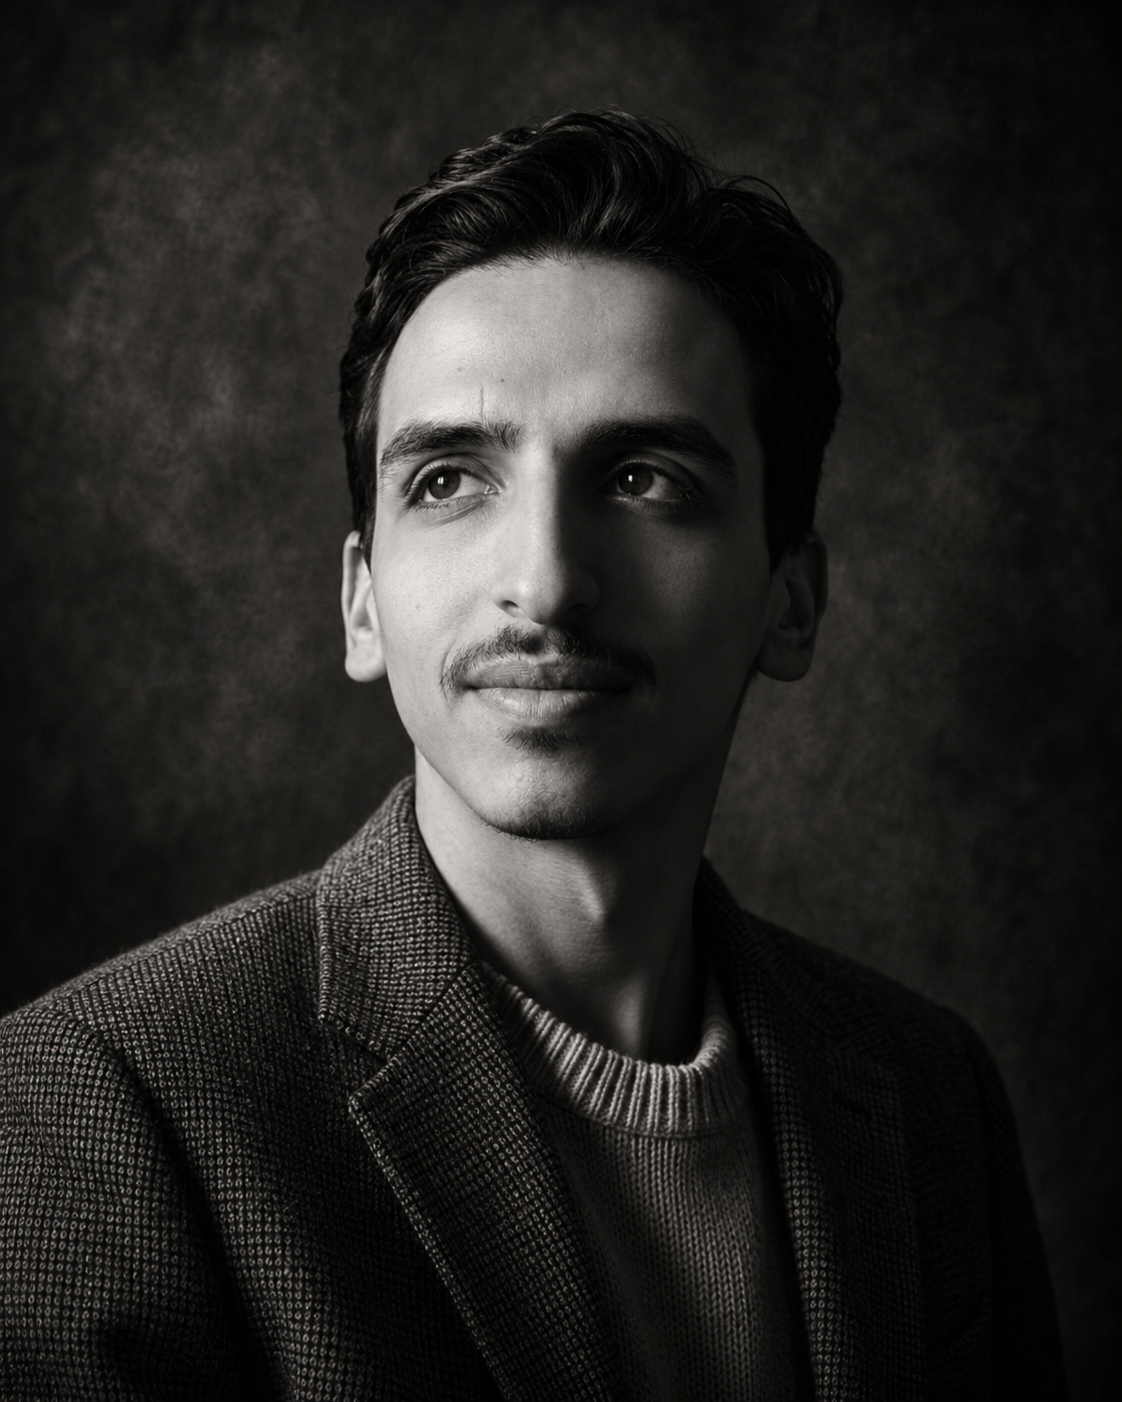
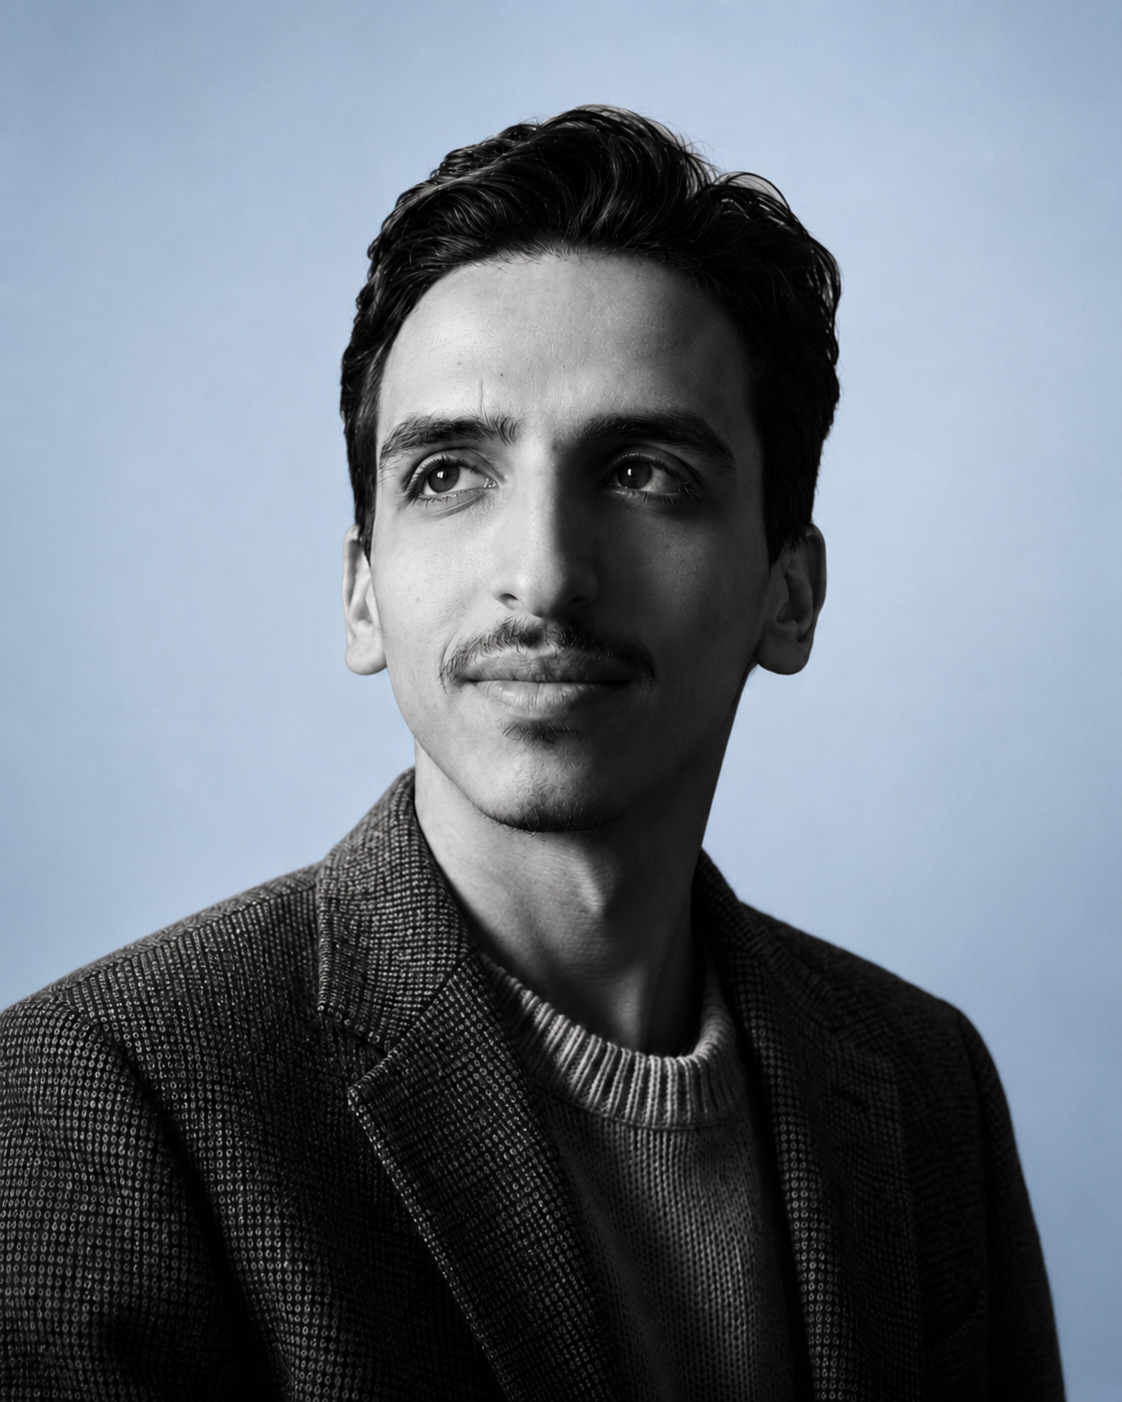
feat: update decoration SVG colors and add new profile image asset

diff --git a/index.html b/index.html
@@ -27,7 +27,7 @@
         <!-- Top Decoration (Dashed Curve) -->
         <div class="decoration-top">
           <svg viewBox="0 0 194 100" xmlns="http://www.w3.org/2000/svg">
-            <path d="M 0 34.544 L 3.22 33.201 C 4.186 35.732 5.256 38.221 6.429 40.663 L 3.329 42.293 C 2.113 39.757 1.002 37.172 0 34.544 Z M 7.294 49.71 L 10.246 47.806 C 11.613 50.127 13.073 52.392 14.622 54.596 L 11.828 56.748 C 10.223 54.464 8.711 52.116 7.294 49.71 Z M 16.894 63.37 L 19.509 60.989 C 21.22 63.047 23.012 65.037 24.881 66.953 L 22.454 69.543 C 20.522 67.557 18.667 65.498 16.894 63.369 Z M 28.47 75.232 L 30.69 72.449 C 32.693 74.197 34.764 75.864 36.9 77.447 L 34.895 80.41 C 32.688 78.767 30.544 77.04 28.47 75.232 Z M 41.7 85.029 L 43.471 81.912 C 45.712 83.304 48.011 84.603 50.36 85.804 L 48.836 89.061 C 46.403 87.816 44.022 86.471 41.7 85.029 Z M 56.27 92.473 L 57.53 89.093 C 59.958 90.083 62.428 90.966 64.934 91.737 L 63.955 95.216 C 61.354 94.415 58.79 93.5 56.27 92.473 Z M 71.836 97.256 L 72.519 93.701 C 73.429 93.891 74.342 94.067 75.251 94.225 C 76.906 94.514 78.569 94.754 80.238 94.947 L 79.861 98.552 C 77.167 98.245 74.489 97.813 71.836 97.256 Z M 87.974 99.1 L 88.046 95.474 C 90.656 95.532 93.266 95.474 95.871 95.301 L 96.088 98.921 C 93.387 99.099 90.68 99.159 87.974 99.101 Z M 103.652 94.44 C 106.238 94.042 108.805 93.535 111.348 92.92 L 112.127 96.454 C 109.493 97.088 106.834 97.613 104.157 98.027 L 103.652 94.439 Z M 118.899 90.762 C 121.391 89.934 123.848 89.006 126.265 87.979 L 127.572 91.337 C 125.07 92.402 122.526 93.364 119.946 94.22 Z M 133.4 84.59 C 135.738 83.362 138.023 82.036 140.251 80.618 L 142.053 83.717 C 139.745 85.184 137.379 86.556 134.959 87.829 L 133.4 84.589 Z M 146.773 76.083 C 148.89 74.477 150.937 72.782 152.91 71.002 L 155.175 73.749 C 153.128 75.594 151.004 77.351 148.808 79.016 Z M 158.611 65.4 C 160.436 63.446 162.174 61.412 163.821 59.306 L 166.505 61.601 C 164.795 63.791 162.988 65.904 161.092 67.935 Z M 168.516 52.75 C 170.003 50.493 171.409 48.184 172.731 45.826 L 175.721 47.665 C 174.354 50.096 172.904 52.479 171.372 54.81 Z M 176.507 38.612 C 177.694 36.166 178.817 33.682 179.881 31.164 L 183.049 32.633 C 181.963 35.204 180.81 37.745 179.592 40.256 Z M 182.922 23.537 C 183.887 20.966 184.809 18.379 185.688 15.777 L 188.956 16.991 C 188.056 19.634 187.126 22.262 186.148 24.862 Z M 188.238 7.924 C 189.062 5.288 189.858 2.645 190.641 -0.001 L 193.953 1.073 C 193.168 3.738 192.361 6.396 191.533 9.048 Z" fill="#ff7a00" />
+            <path d="M 0 34.544 L 3.22 33.201 C 4.186 35.732 5.256 38.221 6.429 40.663 L 3.329 42.293 C 2.113 39.757 1.002 37.172 0 34.544 Z M 7.294 49.71 L 10.246 47.806 C 11.613 50.127 13.073 52.392 14.622 54.596 L 11.828 56.748 C 10.223 54.464 8.711 52.116 7.294 49.71 Z M 16.894 63.37 L 19.509 60.989 C 21.22 63.047 23.012 65.037 24.881 66.953 L 22.454 69.543 C 20.522 67.557 18.667 65.498 16.894 63.369 Z M 28.47 75.232 L 30.69 72.449 C 32.693 74.197 34.764 75.864 36.9 77.447 L 34.895 80.41 C 32.688 78.767 30.544 77.04 28.47 75.232 Z M 41.7 85.029 L 43.471 81.912 C 45.712 83.304 48.011 84.603 50.36 85.804 L 48.836 89.061 C 46.403 87.816 44.022 86.471 41.7 85.029 Z M 56.27 92.473 L 57.53 89.093 C 59.958 90.083 62.428 90.966 64.934 91.737 L 63.955 95.216 C 61.354 94.415 58.79 93.5 56.27 92.473 Z M 71.836 97.256 L 72.519 93.701 C 73.429 93.891 74.342 94.067 75.251 94.225 C 76.906 94.514 78.569 94.754 80.238 94.947 L 79.861 98.552 C 77.167 98.245 74.489 97.813 71.836 97.256 Z M 87.974 99.1 L 88.046 95.474 C 90.656 95.532 93.266 95.474 95.871 95.301 L 96.088 98.921 C 93.387 99.099 90.68 99.159 87.974 99.101 Z M 103.652 94.44 C 106.238 94.042 108.805 93.535 111.348 92.92 L 112.127 96.454 C 109.493 97.088 106.834 97.613 104.157 98.027 L 103.652 94.439 Z M 118.899 90.762 C 121.391 89.934 123.848 89.006 126.265 87.979 L 127.572 91.337 C 125.07 92.402 122.526 93.364 119.946 94.22 Z M 133.4 84.59 C 135.738 83.362 138.023 82.036 140.251 80.618 L 142.053 83.717 C 139.745 85.184 137.379 86.556 134.959 87.829 L 133.4 84.589 Z M 146.773 76.083 C 148.89 74.477 150.937 72.782 152.91 71.002 L 155.175 73.749 C 153.128 75.594 151.004 77.351 148.808 79.016 Z M 158.611 65.4 C 160.436 63.446 162.174 61.412 163.821 59.306 L 166.505 61.601 C 164.795 63.791 162.988 65.904 161.092 67.935 Z M 168.516 52.75 C 170.003 50.493 171.409 48.184 172.731 45.826 L 175.721 47.665 C 174.354 50.096 172.904 52.479 171.372 54.81 Z M 176.507 38.612 C 177.694 36.166 178.817 33.682 179.881 31.164 L 183.049 32.633 C 181.963 35.204 180.81 37.745 179.592 40.256 Z M 182.922 23.537 C 183.887 20.966 184.809 18.379 185.688 15.777 L 188.956 16.991 C 188.056 19.634 187.126 22.262 186.148 24.862 Z M 188.238 7.924 C 189.062 5.288 189.858 2.645 190.641 -0.001 L 193.953 1.073 C 193.168 3.738 192.361 6.396 191.533 9.048 Z" fill="#55aaff" />
           </svg>
         </div>
         
@@ -42,8 +42,8 @@
           <div class="arc-wrapper">
             <div class="decoration-bottom">
               <svg viewBox="0 0 270 166" xmlns="http://www.w3.org/2000/svg">
-                <path d="M 20.39 33.95 L 24.482 33.83 C 24.482 33.83 19.778 31.198 20.39 33.95 L 21.878 42.543 C 21.249 39.703 20.752 36.836 20.39 33.95 Z M 24.194 51.046 L 28.148 50.296 C 29.025 53.022 30.018 55.71 31.124 58.351 L 27.277 59.395 C 26.131 56.657 25.103 53.871 24.194 51.045 Z M 31.094 67.538 L 34.806 66.211 C 36.139 68.772 37.606 71.338 39.17 73.837 L 35.612 75.432 C 34.005 72.86 32.498 70.227 31.094 67.538 Z M 40.798 83.031 L 44.178 81.177 C 45.961 83.583 47.833 85.92 49.792 88.185 L 46.606 90.288 C 44.582 87.941 42.645 85.52 40.798 83.031 Z M 53.014 97.146 L 55.98 94.812 C 58.144 96.961 60.387 99.028 62.705 101.01 L 59.981 103.567 C 57.583 101.517 55.241 99.357 53.014 97.147 Z M 67.475 109.502 L 69.933 106.733 C 72.429 108.561 74.994 110.293 77.623 111.925 L 75.458 114.891 C 72.729 113.197 70.066 111.399 67.475 109.502 Z M 83.875 119.679 L 85.725 116.534 C 86.711 117.044 87.705 117.541 88.699 118.02 C 90.511 118.895 92.348 119.722 94.197 120.507 L 92.682 123.81 C 89.694 122.548 86.757 121.17 83.876 119.679 Z M 101.815 127.261 L 102.986 123.827 C 105.959 124.823 108.967 125.71 112.005 126.486 L 111.166 130.016 C 108.017 129.21 104.898 128.291 101.815 127.261 Z M 121.18 128.47 C 124.228 129.019 127.352 129.464 130.454 129.797 L 130.286 133.448 C 127.069 133.102 123.866 132.644 120.681 132.074 Z M 139.755 130.462 C 142.842 130.572 145.963 130.572 149.031 130.464 L 149.521 134.139 C 146.343 134.252 143.11 134.251 139.916 134.138 Z M 158.226 129.805 C 161.273 129.477 164.313 129.033 167.268 128.488 L 168.403 132.094 C 165.343 132.655 162.193 133.117 159.039 133.456 Z M 176.103 126.514 C 179.003 125.748 181.884 124.863 184.661 123.881 L 186.432 127.318 C 183.511 128.347 180.549 129.257 177.554 130.046 Z M 192.876 120.594 C 195.533 119.399 198.135 118.086 200.676 116.661 L 203.062 119.818 C 200.422 121.3 197.718 122.665 194.958 123.907 Z M 208.025 112.1 C 210.392 110.494 212.696 108.798 214.933 107.016 L 217.807 109.848 C 215.497 111.685 213.119 113.436 210.678 115.096 Z M 221.426 101.497 C 223.517 99.594 225.552 97.631 227.528 95.61 L 230.717 98.154 C 228.693 100.223 226.609 102.232 224.468 104.179 Z M 233.303 89.432 C 235.177 87.333 237.011 85.198 238.803 83.028 L 242.183 85.364 C 240.362 87.563 238.502 89.728 236.602 91.859 Z M 244.083 76.457 C 245.814 74.241 247.525 72.01 249.216 69.764 L 252.689 71.983 C 250.987 74.243 249.264 76.488 247.521 78.717 Z" fill="#ff7a00" />
-                <path d="M 236 63 C 236 53.611 243.611 46 253 46 C 262.389 46 270 53.611 270 63 C 270 72.389 262.389 80 253 80 C 243.611 80 236 72.389 236 63 Z" fill="#ff7a00" />
+                <path d="M 20.39 33.95 L 24.482 33.83 C 24.482 33.83 19.778 31.198 20.39 33.95 L 21.878 42.543 C 21.249 39.703 20.752 36.836 20.39 33.95 Z M 24.194 51.046 L 28.148 50.296 C 29.025 53.022 30.018 55.71 31.124 58.351 L 27.277 59.395 C 26.131 56.657 25.103 53.871 24.194 51.045 Z M 31.094 67.538 L 34.806 66.211 C 36.139 68.772 37.606 71.338 39.17 73.837 L 35.612 75.432 C 34.005 72.86 32.498 70.227 31.094 67.538 Z M 40.798 83.031 L 44.178 81.177 C 45.961 83.583 47.833 85.92 49.792 88.185 L 46.606 90.288 C 44.582 87.941 42.645 85.52 40.798 83.031 Z M 53.014 97.146 L 55.98 94.812 C 58.144 96.961 60.387 99.028 62.705 101.01 L 59.981 103.567 C 57.583 101.517 55.241 99.357 53.014 97.147 Z M 67.475 109.502 L 69.933 106.733 C 72.429 108.561 74.994 110.293 77.623 111.925 L 75.458 114.891 C 72.729 113.197 70.066 111.399 67.475 109.502 Z M 83.875 119.679 L 85.725 116.534 C 86.711 117.044 87.705 117.541 88.699 118.02 C 90.511 118.895 92.348 119.722 94.197 120.507 L 92.682 123.81 C 89.694 122.548 86.757 121.17 83.876 119.679 Z M 101.815 127.261 L 102.986 123.827 C 105.959 124.823 108.967 125.71 112.005 126.486 L 111.166 130.016 C 108.017 129.21 104.898 128.291 101.815 127.261 Z M 121.18 128.47 C 124.228 129.019 127.352 129.464 130.454 129.797 L 130.286 133.448 C 127.069 133.102 123.866 132.644 120.681 132.074 Z M 139.755 130.462 C 142.842 130.572 145.963 130.572 149.031 130.464 L 149.521 134.139 C 146.343 134.252 143.11 134.251 139.916 134.138 Z M 158.226 129.805 C 161.273 129.477 164.313 129.033 167.268 128.488 L 168.403 132.094 C 165.343 132.655 162.193 133.117 159.039 133.456 Z M 176.103 126.514 C 179.003 125.748 181.884 124.863 184.661 123.881 L 186.432 127.318 C 183.511 128.347 180.549 129.257 177.554 130.046 Z M 192.876 120.594 C 195.533 119.399 198.135 118.086 200.676 116.661 L 203.062 119.818 C 200.422 121.3 197.718 122.665 194.958 123.907 Z M 208.025 112.1 C 210.392 110.494 212.696 108.798 214.933 107.016 L 217.807 109.848 C 215.497 111.685 213.119 113.436 210.678 115.096 Z M 221.426 101.497 C 223.517 99.594 225.552 97.631 227.528 95.61 L 230.717 98.154 C 228.693 100.223 226.609 102.232 224.468 104.179 Z M 233.303 89.432 C 235.177 87.333 237.011 85.198 238.803 83.028 L 242.183 85.364 C 240.362 87.563 238.502 89.728 236.602 91.859 Z M 244.083 76.457 C 245.814 74.241 247.525 72.01 249.216 69.764 L 252.689 71.983 C 250.987 74.243 249.264 76.488 247.521 78.717 Z" fill="#55aaff" />
+                <path d="M 236 63 C 236 53.611 243.611 46 253 46 C 262.389 46 270 53.611 270 63 C 270 72.389 262.389 80 253 80 C 243.611 80 236 72.389 236 63 Z" fill="#55aaff" />
                 <path d="M 248.202 59.765 C 248.171 61.334 248.402 62.763 249.823 63.785 C 249.748 63.325 249.655 62.869 249.601 62.408 C 249.355 60.298 249.548 58.268 250.889 56.462 C 251.644 55.443 252.623 54.655 253.833 54 C 253.732 54.327 253.625 54.582 253.577 54.847 C 253.368 56.003 253.771 57.005 254.618 57.812 C 255.239 58.405 255.957 58.916 256.671 59.415 C 257.942 60.304 258.983 61.357 259.525 62.775 C 260.818 66.16 259.435 69.865 255.81 71.445 C 252.418 72.922 248.04 71.34 246.671 68.035 C 245.523 65.264 245.822 62.585 247.774 60.15 C 247.856 60.048 247.949 59.954 248.041 59.86 C 248.064 59.835 248.101 59.822 248.202 59.765 Z M 249.493 68.381 C 250.425 69.591 252.817 70.454 255.031 69.641 C 257.311 68.804 258.617 66.535 258.134 64.249 C 257.759 62.477 256.094 60.97 254.647 60.771 C 255.558 61.904 255.94 63.15 255.71 64.548 C 255.495 65.861 254.23 67.58 253.345 67.708 C 253.788 66.808 254.04 65.885 253.811 64.881 C 253.09 66.821 251.685 68.006 249.493 68.381 Z" fill="#ffffff" />
               </svg>
             </div>

diff --git a/style.css b/style.css
@@ -107,9 +107,9 @@ a {
 /* Decorative SVG Vectors */
 .decoration-top {
   position: absolute;
-  top: -15px;
-  left: -15px;
-  width: 160px;
+  top: -20px;
+  left: -35px;
+  width: 220px;
   height: auto;
   z-index: 2;
   pointer-events: none;
@@ -124,7 +124,7 @@ a {
 .card-image-box {
   width: 100%;
   aspect-ratio: 1 / 1.1;
-  background: linear-gradient(180deg, #ff7a00 0%, #e85d04 100%);
+  background: linear-gradient(180deg, #55aaff 0%, #0077ff 100%);
   border-radius: 24px;
   overflow: hidden;
   margin-bottom: 24px;
@@ -157,18 +157,18 @@ a {
 .arc-wrapper {
   position: relative;
   width: 100%;
-  height: 40px; /* even more compact */
-  margin: 10px 0;
+  height: 85px; /* Balanced gap */
+  margin: 0;
   display: flex;
   align-items: center;
 }
 
 .decoration-bottom {
   position: absolute;
-  left: -50px; /* Shifted significantly left to come out of the side */
-  width: 270px;
-  height: 166px;
-  transform: scale(0.5); 
+  left: -165px; /* Balanced position between previous two attempts */
+  width: 290px;
+  height: 190px;
+  transform: scale(0.85);
   transform-origin: left center;
   z-index: 2;
   pointer-events: none;
@@ -199,7 +199,7 @@ a {
 }
 
 .card-social-link {
-  color: #ff7a00;
+  color: #55aaff;
   transition: transform 0.2s ease, opacity 0.2s ease;
   display: flex;
   align-items: center;
